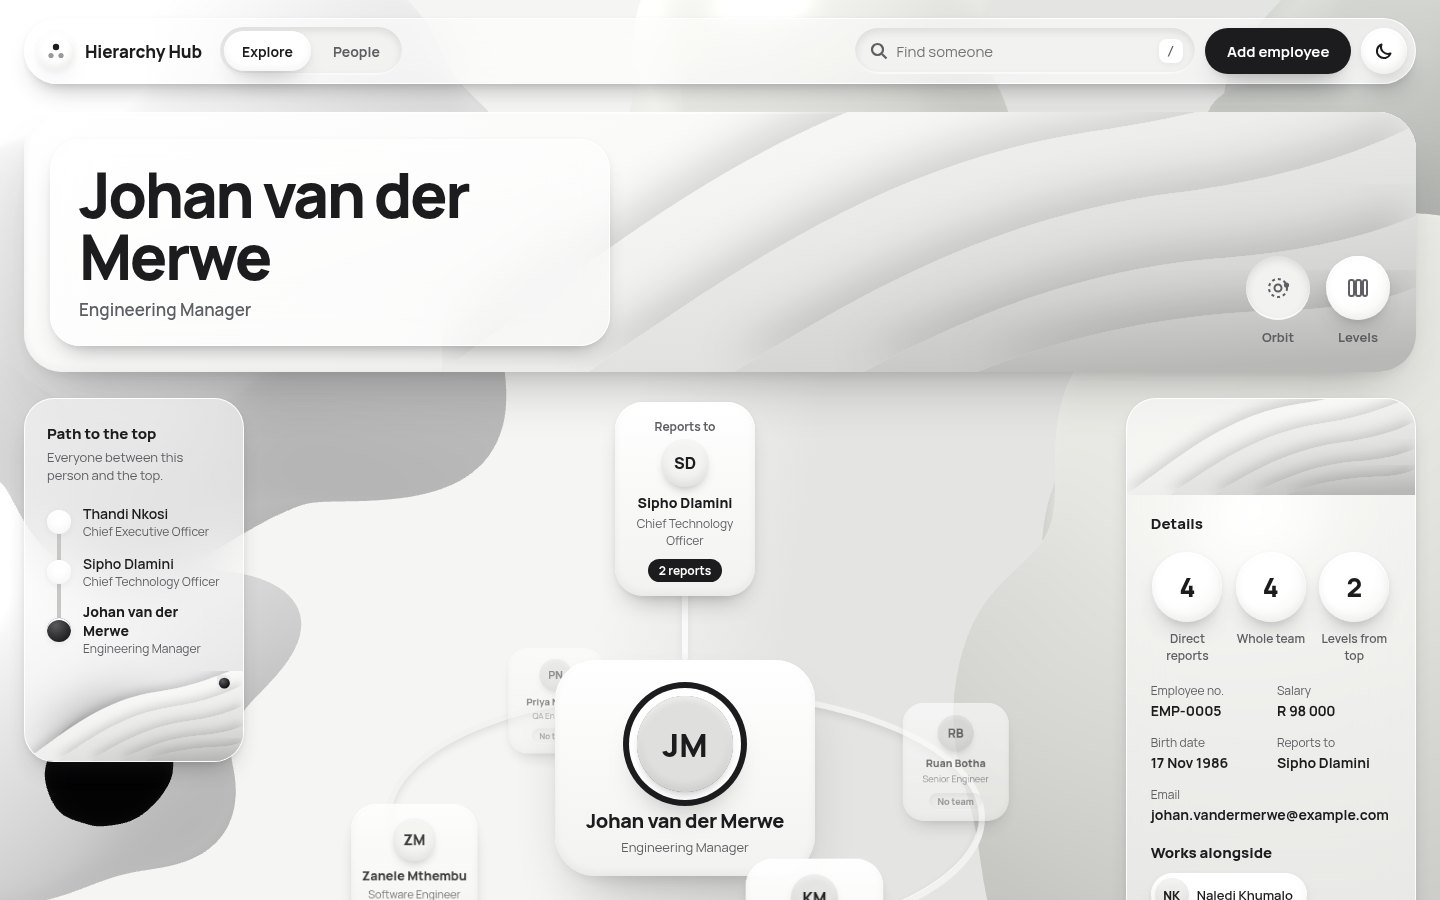
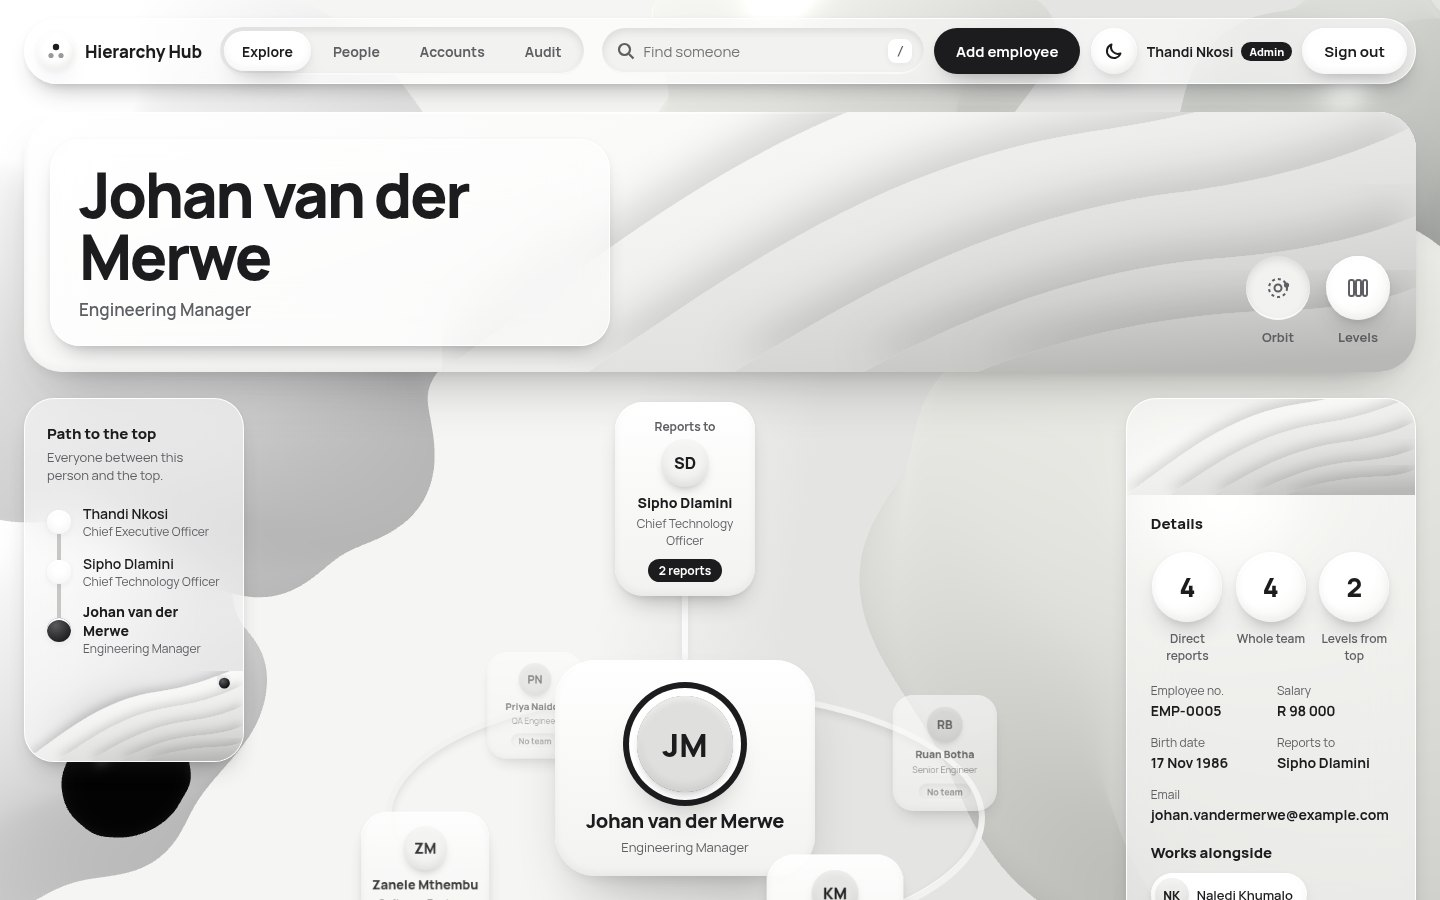
final docs update i think with images

diff --git a/apps/web/src/components/layout/AppShell.module.css b/apps/web/src/components/layout/AppShell.module.css
@@ -80,7 +80,9 @@
   flex: 1 1 auto;
   margin-left: auto;
   display: flex;
-  flex-wrap: wrap;
+  /* one line, so the account menu never drops below the search. the search shrinks instead */
+  flex-wrap: nowrap;
+  white-space: nowrap;
   align-items: center;
   justify-content: flex-end;
   gap: 10px;
@@ -153,4 +155,13 @@
   .accountName {
     display: none;
   }
+}
+
+/* buttons keep their size, only the search gives way when space is short */
+.end > * {
+  flex-shrink: 0;
+}
+
+.end > :first-child {
+  flex-shrink: 1;
 }

diff --git a/apps/web/src/features/search/GlobalSearch.module.css b/apps/web/src/features/search/GlobalSearch.module.css
@@ -1,7 +1,7 @@
 .search {
   position: relative;
   flex: 0 1 340px;
-  min-width: 220px;
+  min-width: 170px;
 }
 
 .input {

diff --git a/docs/srs/SRS.md b/docs/srs/SRS.md
@@ -109,6 +109,8 @@ flowchart LR
         uc3(["UC-03 Edit an employee"])
         uc4(["UC-04 Delete an employee"])
         uc11(["UC-11 Resolve a clashing change"])
+        uc16(["UC-16 Approve a new account"])
+        uc17(["UC-17 Change someone's access"])
         val(["Check the input and the rules"])
     end
 
@@ -118,6 +120,8 @@ flowchart LR
     hr --- uc3
     hr --- uc4
     hr --- uc11
+    hr --- uc16
+    hr --- uc17
 
     uc1 -.->|"«include»"| val
     uc3 -.->|"«include»"| val
@@ -145,6 +149,8 @@ flowchart LR
         uc9(["UC-09 Export the table to CSV"])
         uc13(["UC-13 Share a view"])
         uc14(["UC-14 Switch light or dark mode"])
+        uc15(["UC-15 Sign in"])
+        uc18(["UC-18 Review the audit trail"])
         pic(["Show profile pictures"])
     end
 
@@ -154,6 +160,8 @@ flowchart LR
     mgr --- uc7
     mgr --- uc2
     mgr --- uc14
+    mgr --- uc15
+    hr --- uc18
     hr --- uc8
     hr --- uc9
     hr --- uc13
@@ -171,22 +179,26 @@ How to read them: a solid line joins an actor to a use case they start. «includ
 
 ### 3.4 Use case list
 
-| ID    | Use case                        | Primary actor        | Requirements          |
-| ----- | ------------------------------- | -------------------- | --------------------- |
-| UC-01 | Add an employee                 | HR administrator     | FR-01, FR-05, FR-06   |
-| UC-02 | View an employee                | Manager or executive | FR-02, FR-15          |
-| UC-03 | Edit an employee                | HR administrator     | FR-03, FR-06          |
-| UC-04 | Delete an employee              | HR administrator     | FR-04, BR-04          |
-| UC-05 | Set an employee's manager       | HR administrator     | FR-05, BR-01 to BR-03 |
-| UC-06 | Explore the org chart           | Manager or executive | FR-07, FR-11          |
-| UC-07 | Search for someone              | Manager or executive | FR-08                 |
-| UC-08 | Sort and filter the table       | HR administrator     | FR-09, FR-10, FR-13   |
-| UC-09 | Export the table to CSV         | HR administrator     | FR-14                 |
-| UC-10 | Drag someone onto a new manager | HR administrator     | FR-12                 |
-| UC-11 | Resolve a clashing change       | HR administrator     | FR-22                 |
-| UC-12 | Spin the orbit                  | Manager or executive | FR-21                 |
-| UC-13 | Share a view                    | Any user             | FR-13                 |
-| UC-14 | Switch light or dark mode       | Any user             | FR-23                 |
+| ID    | Use case                        | Primary actor            | Requirements          |
+| ----- | ------------------------------- | ------------------------ | --------------------- |
+| UC-01 | Add an employee                 | HR administrator         | FR-01, FR-05, FR-06   |
+| UC-02 | View an employee                | Manager or executive     | FR-02, FR-15          |
+| UC-03 | Edit an employee                | HR administrator         | FR-03, FR-06          |
+| UC-04 | Delete an employee              | HR administrator         | FR-04, BR-04          |
+| UC-05 | Set an employee's manager       | HR administrator         | FR-05, BR-01 to BR-03 |
+| UC-06 | Explore the org chart           | Manager or executive     | FR-07, FR-11          |
+| UC-07 | Search for someone              | Manager or executive     | FR-08                 |
+| UC-08 | Sort and filter the table       | HR administrator         | FR-09, FR-10, FR-13   |
+| UC-09 | Export the table to CSV         | HR administrator         | FR-14                 |
+| UC-10 | Drag someone onto a new manager | HR administrator         | FR-12                 |
+| UC-11 | Resolve a clashing change       | HR administrator         | FR-22                 |
+| UC-12 | Spin the orbit                  | Manager or executive     | FR-21                 |
+| UC-13 | Share a view                    | Any user                 | FR-13                 |
+| UC-14 | Switch light or dark mode       | Any user                 | FR-23                 |
+| UC-15 | Sign in                         | Any user                 | FR-17                 |
+| UC-16 | Approve a new account           | HR administrator (admin) | FR-24                 |
+| UC-17 | Change someone's access         | HR administrator (admin) | FR-27                 |
+| UC-18 | Review the audit trail          | HR administrator (admin) | FR-18                 |
 
 ### 3.5 Use case descriptions
 
@@ -315,6 +327,40 @@ How to read them: a solid line joins an actor to a use case they start. «includ
 | ---------- | -------------------------------------------------------------------------------------------------------------- |
 | Actor      | Any user                                                                                                       |
 | Main steps | 1. The user selects the round theme button in the top bar. 2. The app switches theme and remembers the choice. |
+
+#### UC-15 Sign in
+
+|                          |                                                                                                                                        |
+| ------------------------ | -------------------------------------------------------------------------------------------------------------------------------------- |
+| Actor                    | Any user                                                                                                                               |
+| Before                   | They have an approved account. If not, they select **Ask for an account** and wait for UC-16.                                          |
+| Main steps               | 1. The user enters their email and password. 2. The system checks them and starts a session. 3. They go on to the page they asked for. |
+| If the details are wrong | The same message for a wrong email or a wrong password. Five wrong passwords lock the account for 15 minutes.                          |
+| After                    | Signed in until they sign out, the session runs out, or an admin turns their account off.                                              |
+
+#### UC-16 Approve a new account
+
+|            |                                                                                                                                                                                                         |
+| ---------- | ------------------------------------------------------------------------------------------------------------------------------------------------------------------------------------------------------- |
+| Actor      | An admin                                                                                                                                                                                                |
+| Main steps | 1. The admin opens **Accounts**. 2. For a waiting request, they choose the employee it belongs to, from the people below them who don't have an account yet. 3. They select **Approve**, or **Reject**. |
+| After      | The person can sign in, and the approval is in the audit trail (UC-18).                                                                                                                                 |
+
+#### UC-17 Change someone's access
+
+|            |                                                                                                                                           |
+| ---------- | ----------------------------------------------------------------------------------------------------------------------------------------- |
+| Actor      | An admin                                                                                                                                  |
+| Main steps | 1. The admin opens **Accounts**. 2. For someone below them, they select **Make admin**, **Remove admin**, **Turn off** or **Turn on**.    |
+| After      | The change applies to the person's next request. Turning an account off signs them out straight away. Nobody can change their own access. |
+
+#### UC-18 Review the audit trail
+
+|            |                                                                                                                                                             |
+| ---------- | ----------------------------------------------------------------------------------------------------------------------------------------------------------- |
+| Actor      | An admin                                                                                                                                                    |
+| Main steps | 1. The admin opens **Audit**, or **View history** on someone's details. 2. They read what happened, newest first, and narrow it by person or kind of event. |
+| After      | Nothing changes. They only see events about people who were below them at the time, and about themselves.                                                   |
 
 ## 4. Functional requirements
 

diff --git a/docs/sas/SAS.md b/docs/sas/SAS.md
@@ -78,7 +78,7 @@ flowchart TB
 
 ## 5. Inside the API
 
-Every request passes through the same pipeline before it reaches an endpoint, then down through three layers. Each layer only talks to the one below it.
+Every request passes through the same pipeline before it reaches an endpoint, then down through three layers. Each layer only talks to the one below it. Every route needs a signed in, approved account except the health checks and the sign in forms (ADR 0016), what each person may change follows the hierarchy (ADR 0017), and every change is recorded in the same transaction (ADR 0018).
 
 ```mermaid
 flowchart TB
@@ -90,10 +90,24 @@ flowchart TB
             helmet["<b>Helmet</b><br/>Security headers"]
             cors["<b>CORS</b><br/>Only the web app's address"]
             rid["<b>Request ID and access log</b><br/>No query strings or bodies"]
+            cross["<b>Same-site check</b><br/>Changes only from the app itself"]
             body["<b>JSON body parser</b><br/>16 KB limit"]
             throttle["<b>Rate limit guard</b><br/>Reads and changes counted apart"]
-            helmet --> cors --> rid --> body --> throttle
+            guard["<b>Session guard</b><br/>Signed in, approved account. Admin only routes"]
+            helmet --> cors --> rid --> cross --> body --> throttle --> guard
         end
+
+        subgraph authm["Auth and accounts modules"]
+            authc["<b>Auth controller</b><br/>Sign up, sign in, sign out, me"]
+            authsvc["<b>Auth service</b><br/>Argon2id, lockout, sessions"]
+            acc["<b>Accounts</b><br/>Approve, reject, change access"]
+        end
+
+        subgraph aud["Audit module"]
+            audsvc["<b>Audit service</b><br/>Writes events in the same transaction,<br/>reads them by who can see what"]
+        end
+
+        hier["<b>Hierarchy service</b><br/>Who is below whom, the reporting lines lock"]
 
         subgraph emp["Employees module"]
             ctrl["<b>Controller</b><br/>Routes, status codes, ETag and Location headers"]
@@ -121,8 +135,18 @@ flowchart TB
     db[("PostgreSQL")]
 
     req --> helmet
-    throttle --> ctrl
+    guard --> ctrl
+    guard --> authc
+    guard --> acc
     throttle --> hc
+    authc --> authsvc
+    authsvc --> audsvc
+    acc --> audsvc
+    svc --> hier
+    svc --> audsvc
+    audsvc --> dbs
+    hier --> dbs
+    authsvc --> dbs
     ctrl --> pipe
     ctrl --> ifm
     pipe -.-> shared
@@ -266,10 +290,39 @@ erDiagram
         decimal salary
         string role
         uuid manager_id FK "empty for top-level"
+        int version "goes up on every change"
         datetime created_at
         datetime updated_at
     }
+    EMPLOYEE |o--o| ACCOUNT : "signs in as"
+    ACCOUNT ||--o{ SESSION : "has"
+    ACCOUNT {
+        uuid id PK
+        string email UK
+        string password_hash "argon2id only"
+        string status "pending, active or disabled"
+        boolean is_admin
+        uuid employee_id FK,UK "set when approved"
+        int failed_logins
+        datetime locked_until
+    }
+    SESSION {
+        string id PK "sha-256 of the cookie"
+        uuid account_id FK
+        datetime expires_at
+    }
+    AUDIT_EVENT {
+        uuid id PK
+        datetime at
+        string action
+        string actor_name "copied at the time"
+        string subject_name "copied at the time"
+        uuid_array scope "the subject and everyone above them then"
+        json changes "each field before and after"
+    }
 ```
+
+Accounts link to employees one to one. Sessions belong to an account and are deleted with it. Audit events deliberately have no links to anything: they copy the names and positions they need at the time, so they still read correctly after people are renamed, moved or deleted, and deleting someone can never touch their history. The audit table is append only (ADR 0018).
 
 ### 8.2 Rules enforced by the database
 

diff --git a/docs/user-guide/USER_GUIDE.md b/docs/user-guide/USER_GUIDE.md
@@ -10,6 +10,8 @@ Live app: _link added after deployment_
 
 Open the app in a current browser and sign in with your work email and password. Your name appears in the top bar, with an **Admin** badge if you're an admin. Select **Sign out** there when you're done.
 
+![The sign in page](images/sign-in.jpg)
+
 If you type the wrong password five times in a row, your account is locked for 15 minutes, even for the right password. This stops anyone guessing it.
 
 ### Asking for an account
@@ -242,6 +244,8 @@ These go beyond what the brief asked for. [Beyond the brief](../extras/EXTRAS.md
 
 Admins see an **Accounts** tab in the top bar. It has two parts.
 
+![The Accounts page, with Amara waiting for approval and the team's accounts below](images/accounts.jpg)
+
 **Waiting for approval** lists everyone who has asked for an account. For each person:
 
 1. Check who they are, for example by asking their manager.
@@ -261,6 +265,8 @@ You can't change your own account, so you can never lock yourself out or give yo
 ## 12. Who can change what
 
 What you can do depends on where you sit in the organisation. Everyone below you, at any depth, is in your reach.
+
+![Ruan's view of the People page: only his own salary and birth date are shown, everyone else's say Private](images/private-salaries.jpg)
 
 | You are              | You can see the salary and birth date of | You can change                                                                       |
 | -------------------- | ---------------------------------------- | ------------------------------------------------------------------------------------ |
@@ -282,6 +288,8 @@ Buttons for things you can't do aren't shown. When editing yourself, the form on
 ## 13. The audit page (admins)
 
 Admins see an **Audit** tab in the top bar. It lists everything that happened in your part of the organisation, newest first, as plain sentences such as:
+
+![The Audit page, showing Thandi's changes to Ruan, with each change before and after](images/audit.jpg)
 
 - "Johan van der Merwe changed Ruan Botha", followed by each change, like "role from Senior Engineer to Lead Engineer"
 - "Thandi Nkosi deleted Johan van der Merwe. Their team of 4 moved to Sipho Dlamini"

diff --git a/docs/planning/ROADMAP.md b/docs/planning/ROADMAP.md
@@ -23,7 +23,7 @@ The project is built in parts. Each part is one branch and one pull request, mad
 | 6b   | Accounts: sign up, sign in, sessions, admin approval                                        | `feat/accounts`              | Done        |
 | 6c   | Permissions based on the hierarchy, and salary privacy                                      | `feat/permissions`           | Done        |
 | 6d   | Audit trail and audit page                                                                  | `feat/audit`                 | Done        |
-| 6e   | Tidy comments and finish the docs                                                           | `chore/tidy`                 | Not started |
+| 6e   | Tidy comments, bring every document up to date, fresh screenshots                           | `chore/tidy`                 | Done        |
 | 7    | AWS setup and deployment                                                                    | `feat/aws-deployment`        | Not started |
 | 8    | Final pass: live URL, deployment details and fresh screenshots                              | `docs/final-documentation`   | Not started |
 

diff --git a/docs/technical/TECHNICAL.md b/docs/technical/TECHNICAL.md
@@ -235,6 +235,10 @@ The brief invites extra functionality. These were built, and each is explained i
 | Shareable links for any person or filtered view                                                   | FR-13                 |
 | Protection against two people overwriting each other's changes                                    | FR-22                 |
 | Light and dark mode, phone and tablet layouts, keyboard and screen reader support, reduced motion | FR-23, NFR-07, NFR-08 |
+| Sign in, with new accounts approved by an admin above the person                                  | FR-17, FR-24          |
+| Permissions that follow the hierarchy, and salaries private to the person and those above them    | FR-25 to FR-27        |
+| An audit trail of every change that nobody can edit, with an Audit page for admins                | FR-18                 |
+| Every attack we tried kept as an automated test ([security testing](../security/ATTACKS.md))      | NFR-04                |
 
 ### Picture upload
 
